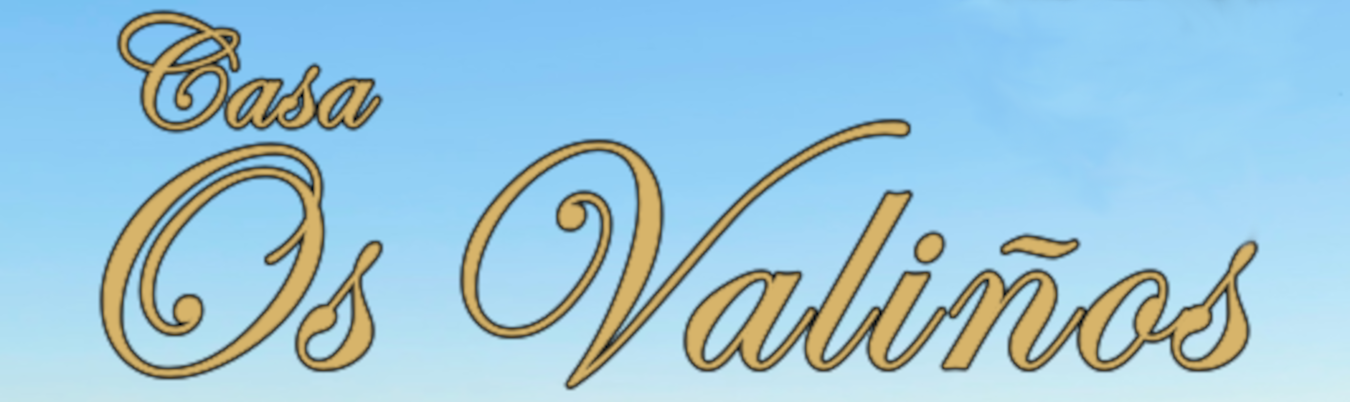
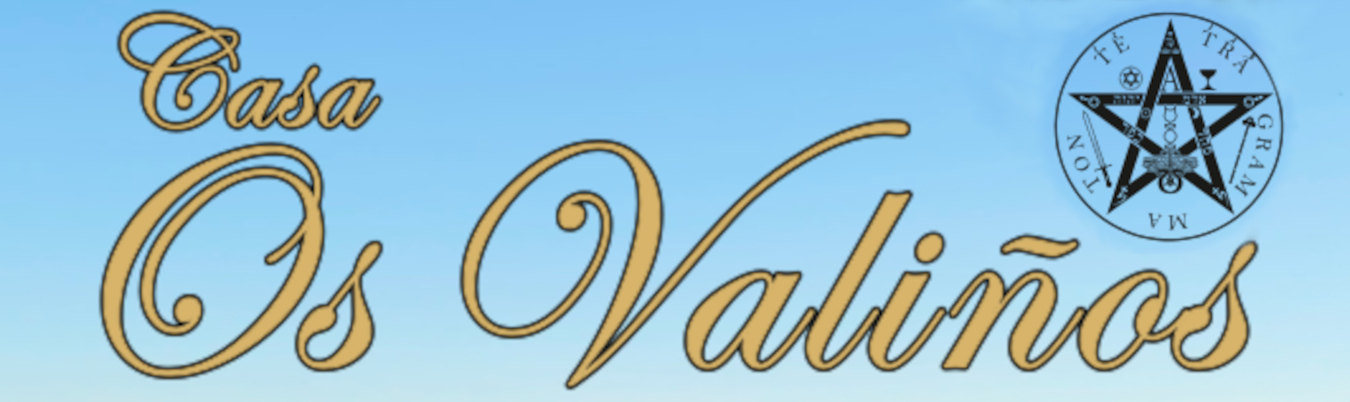
media update

Changed region(s): [[0.7778, 0.0299, 0.9644, 0.6269]]

diff --git a/home.html b/home.html
@@ -12,7 +12,7 @@
 <body>
 
 <header>
-    <img src="./MEDIA/cabecera_v2.png" alt="Imagen Cabecera">
+    <img src="./MEDIA/cabecera.png" alt="Imagen Cabecera">
     <div class="menu-icon">&#9776;</div>
     <div class="menu">
         <ul>
